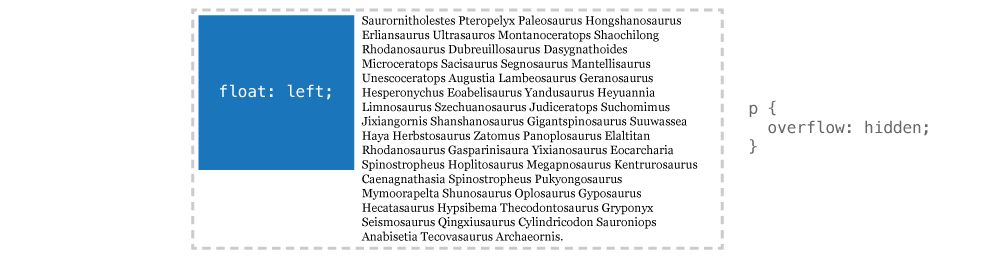
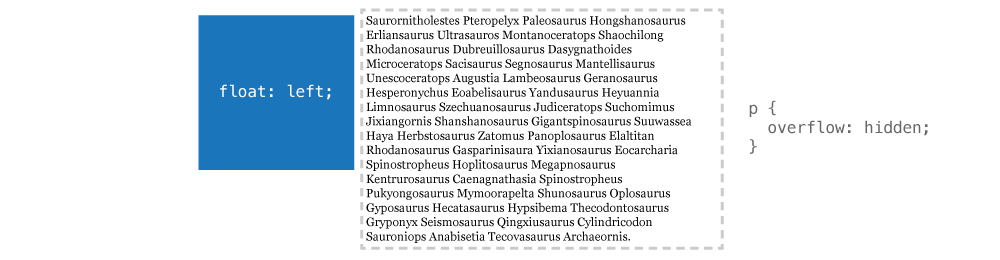
Add links. Fix incorrect image.

Changed region(s): [[0.186, 0.0308, 0.713, 0.9846]]

diff --git a/float-clear/README.md b/float-clear/README.md
@@ -311,5 +311,7 @@ p {
 ## Links
 
 - **[MDN: float](https://developer.mozilla.org/en-US/docs/Web/CSS/float)**
-- [Codrops: Float](http://tympanus.net/codrops/css_reference/float/)
+- **[MDN: clear](https://developer.mozilla.org/en-US/docs/Web/CSS/clear)**
+- [Codrops: float](http://tympanus.net/codrops/css_reference/float/)
+- [Codrops: clear](http://tympanus.net/codrops/css_reference/clear/)
 - [Positioning with float](http://learn.shayhowe.com/html-css/positioning-content/#floats)
